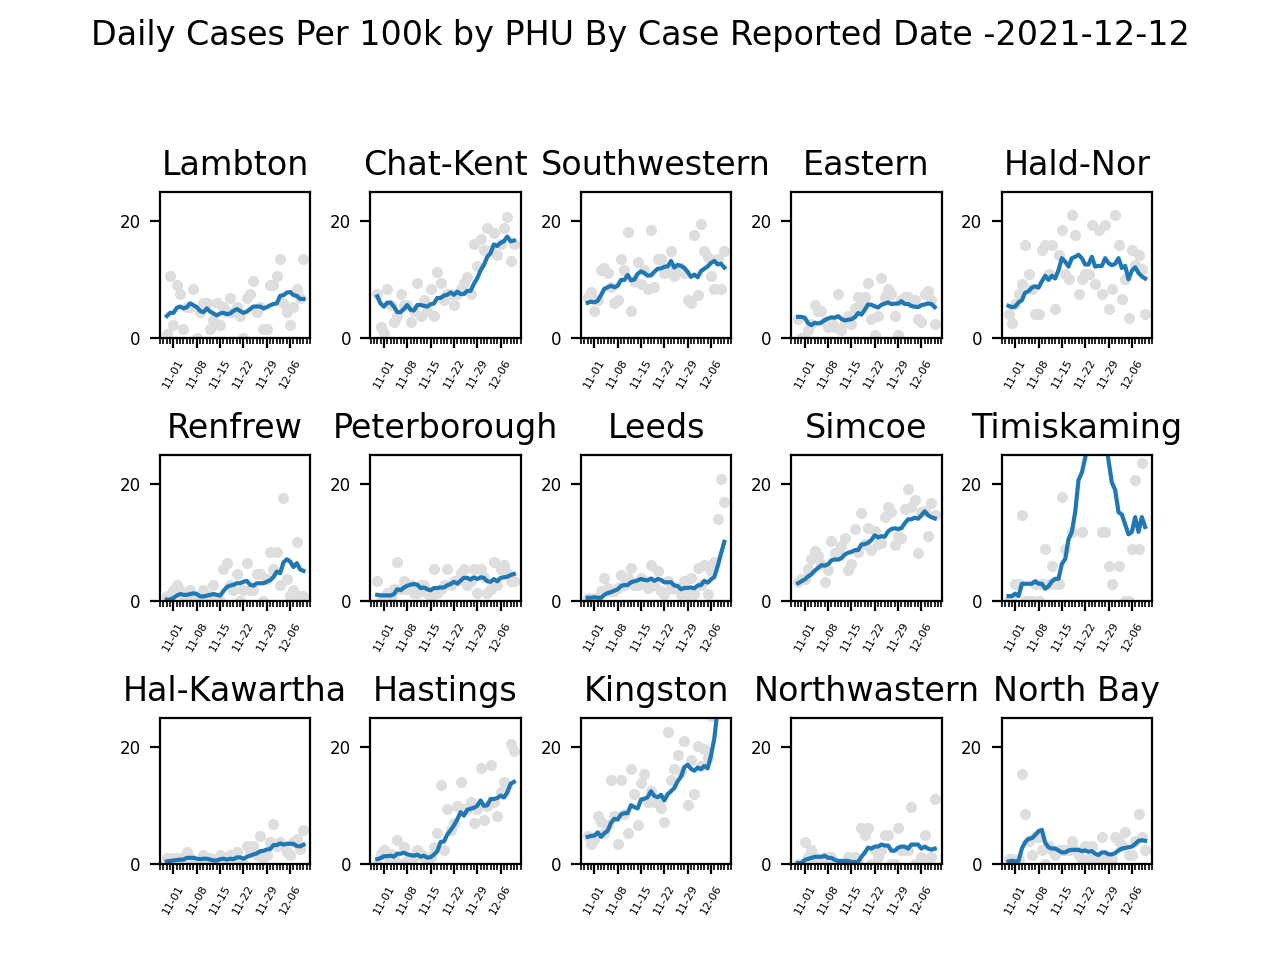
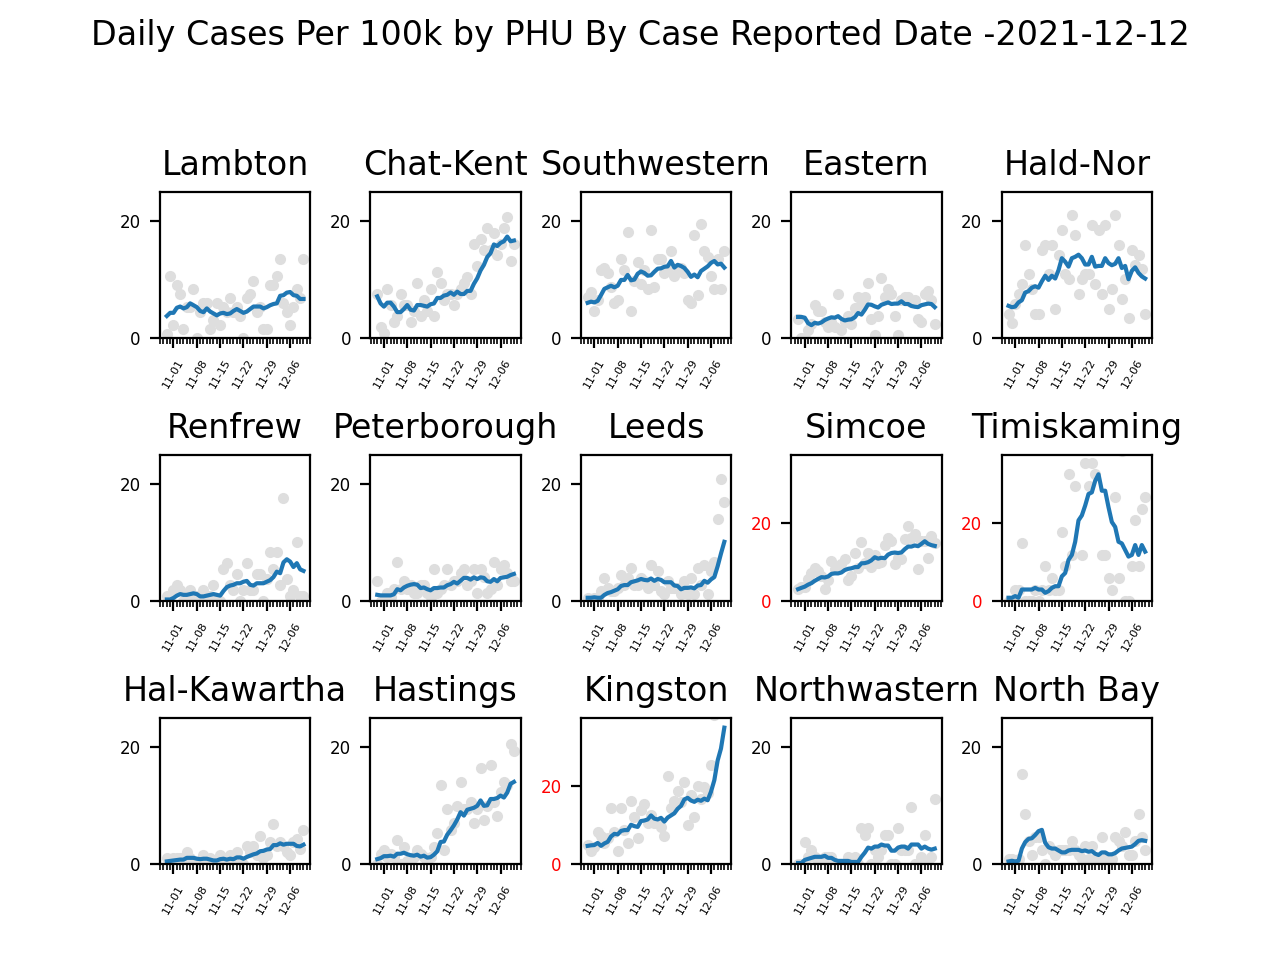
automated

diff --git a/Scripts/Covid_AnalysisPlot.py b/Scripts/Covid_AnalysisPlot.py
@@ -269,19 +269,19 @@ PHU_Scale = {"Peel Public Health":1,"Toronto Public Health":1,
 "York Region Public Health Services":1,"Hamilton Public Health Services":1,
 "Niagara Region Public Health Department":1,
 "Halton Region Health Department":1,"Region of Waterloo, Public Health":1,
-"Windsor-Essex County Health Unit":1,"Ottawa Public Health":1,
+"Windsor-Essex County Health Unit":1.5,"Ottawa Public Health":1,
 "Durham Region Health Department":1,"Brant County Health Unit":1,
 "Lambton Public Health":1,"Chatham-Kent Health Unit":1,
 "Huron Perth District Health Unit":1,"Southwestern Public Health":1,
 "Middlesex-London Health Unit":1,"Wellington-Dufferin-Guelph Public Health":1,
 "Eastern Ontario Health Unit":1,"Haldimand-Norfolk Health Unit":1,
-"Simcoe Muskoka District Health Unit":1,"Peterborough Public Health":1,
-"Timiskaming Health Unit":1,"Haliburton, Kawartha, Pine Ridge District Health Unit":1,
+"Simcoe Muskoka District Health Unit":1.5,"Peterborough Public Health":1,
+"Timiskaming Health Unit":1.5,"Haliburton, Kawartha, Pine Ridge District Health Unit":1,
 "Leeds, Grenville and Lanark District Health Unit":1,"Grey Bruce Health Unit":1,
 "Renfrew County and District Health Unit":1,"Hastings and Prince Edward Counties Health Unit":1,
-"Thunder Bay District Health Unit":1,"Kingston, Frontenac and Lennox & Addington Public Health":1,
+"Thunder Bay District Health Unit":1,"Kingston, Frontenac and Lennox & Addington Public Health":1.5,
 "Northwestern Health Unit":1,"North Bay Parry Sound District Health Unit":1,
-"Algoma Public Health Unit":1,"Sudbury & District Health Unit":1,"Porcupine Health Unit":1}
+"Algoma Public Health Unit":1.5,"Sudbury & District Health Unit":1.5,"Porcupine Health Unit":1}
 
 
 PHU_PositionC1 = {"Peel Public Health":1,"Toronto Public Health":2,
